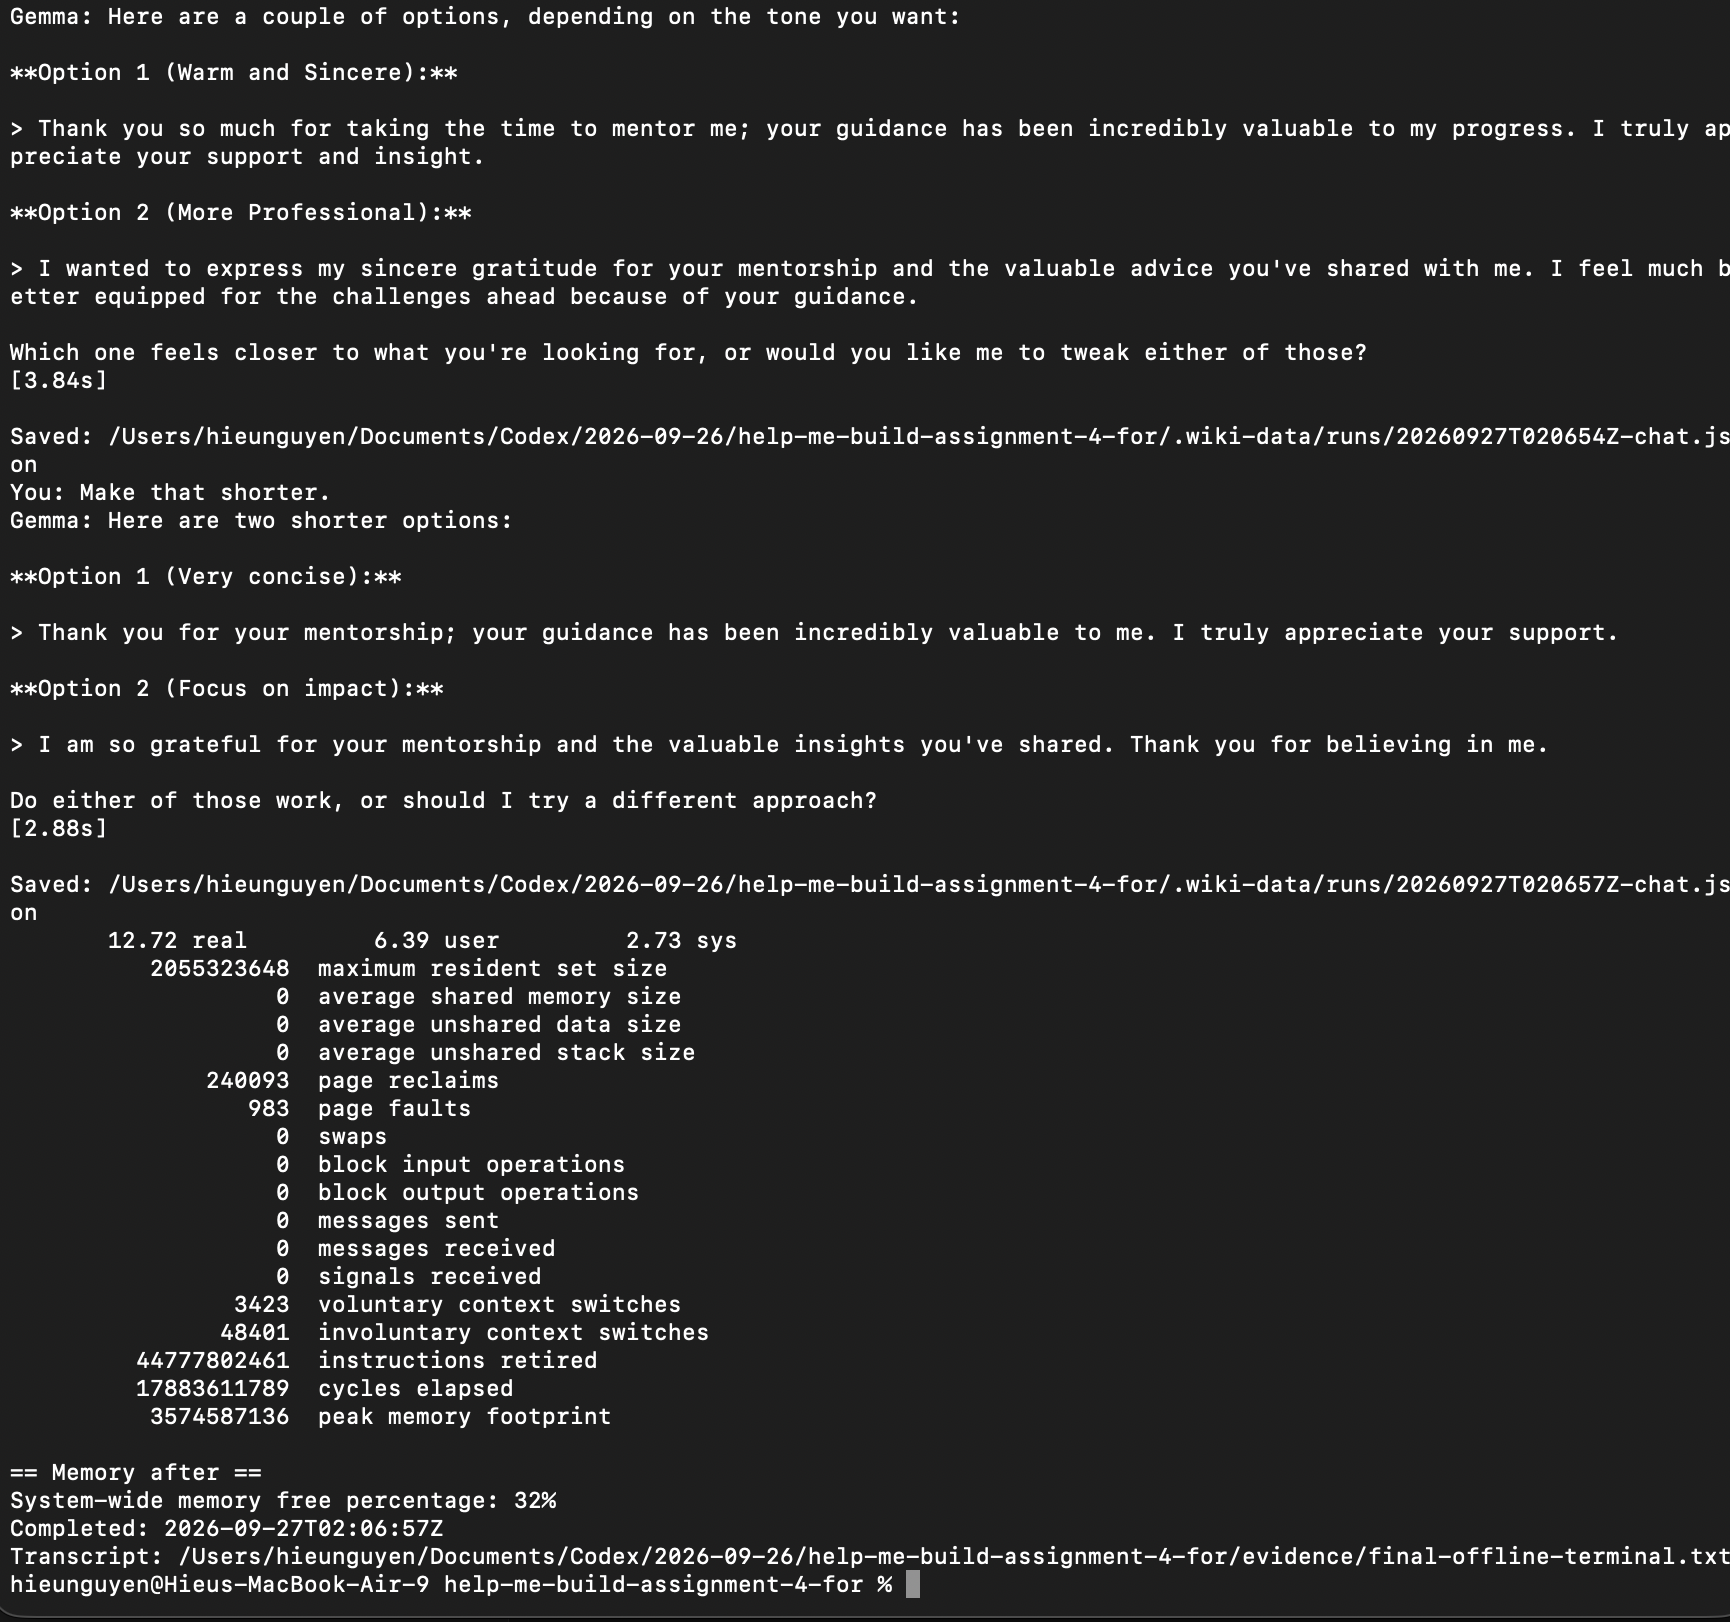
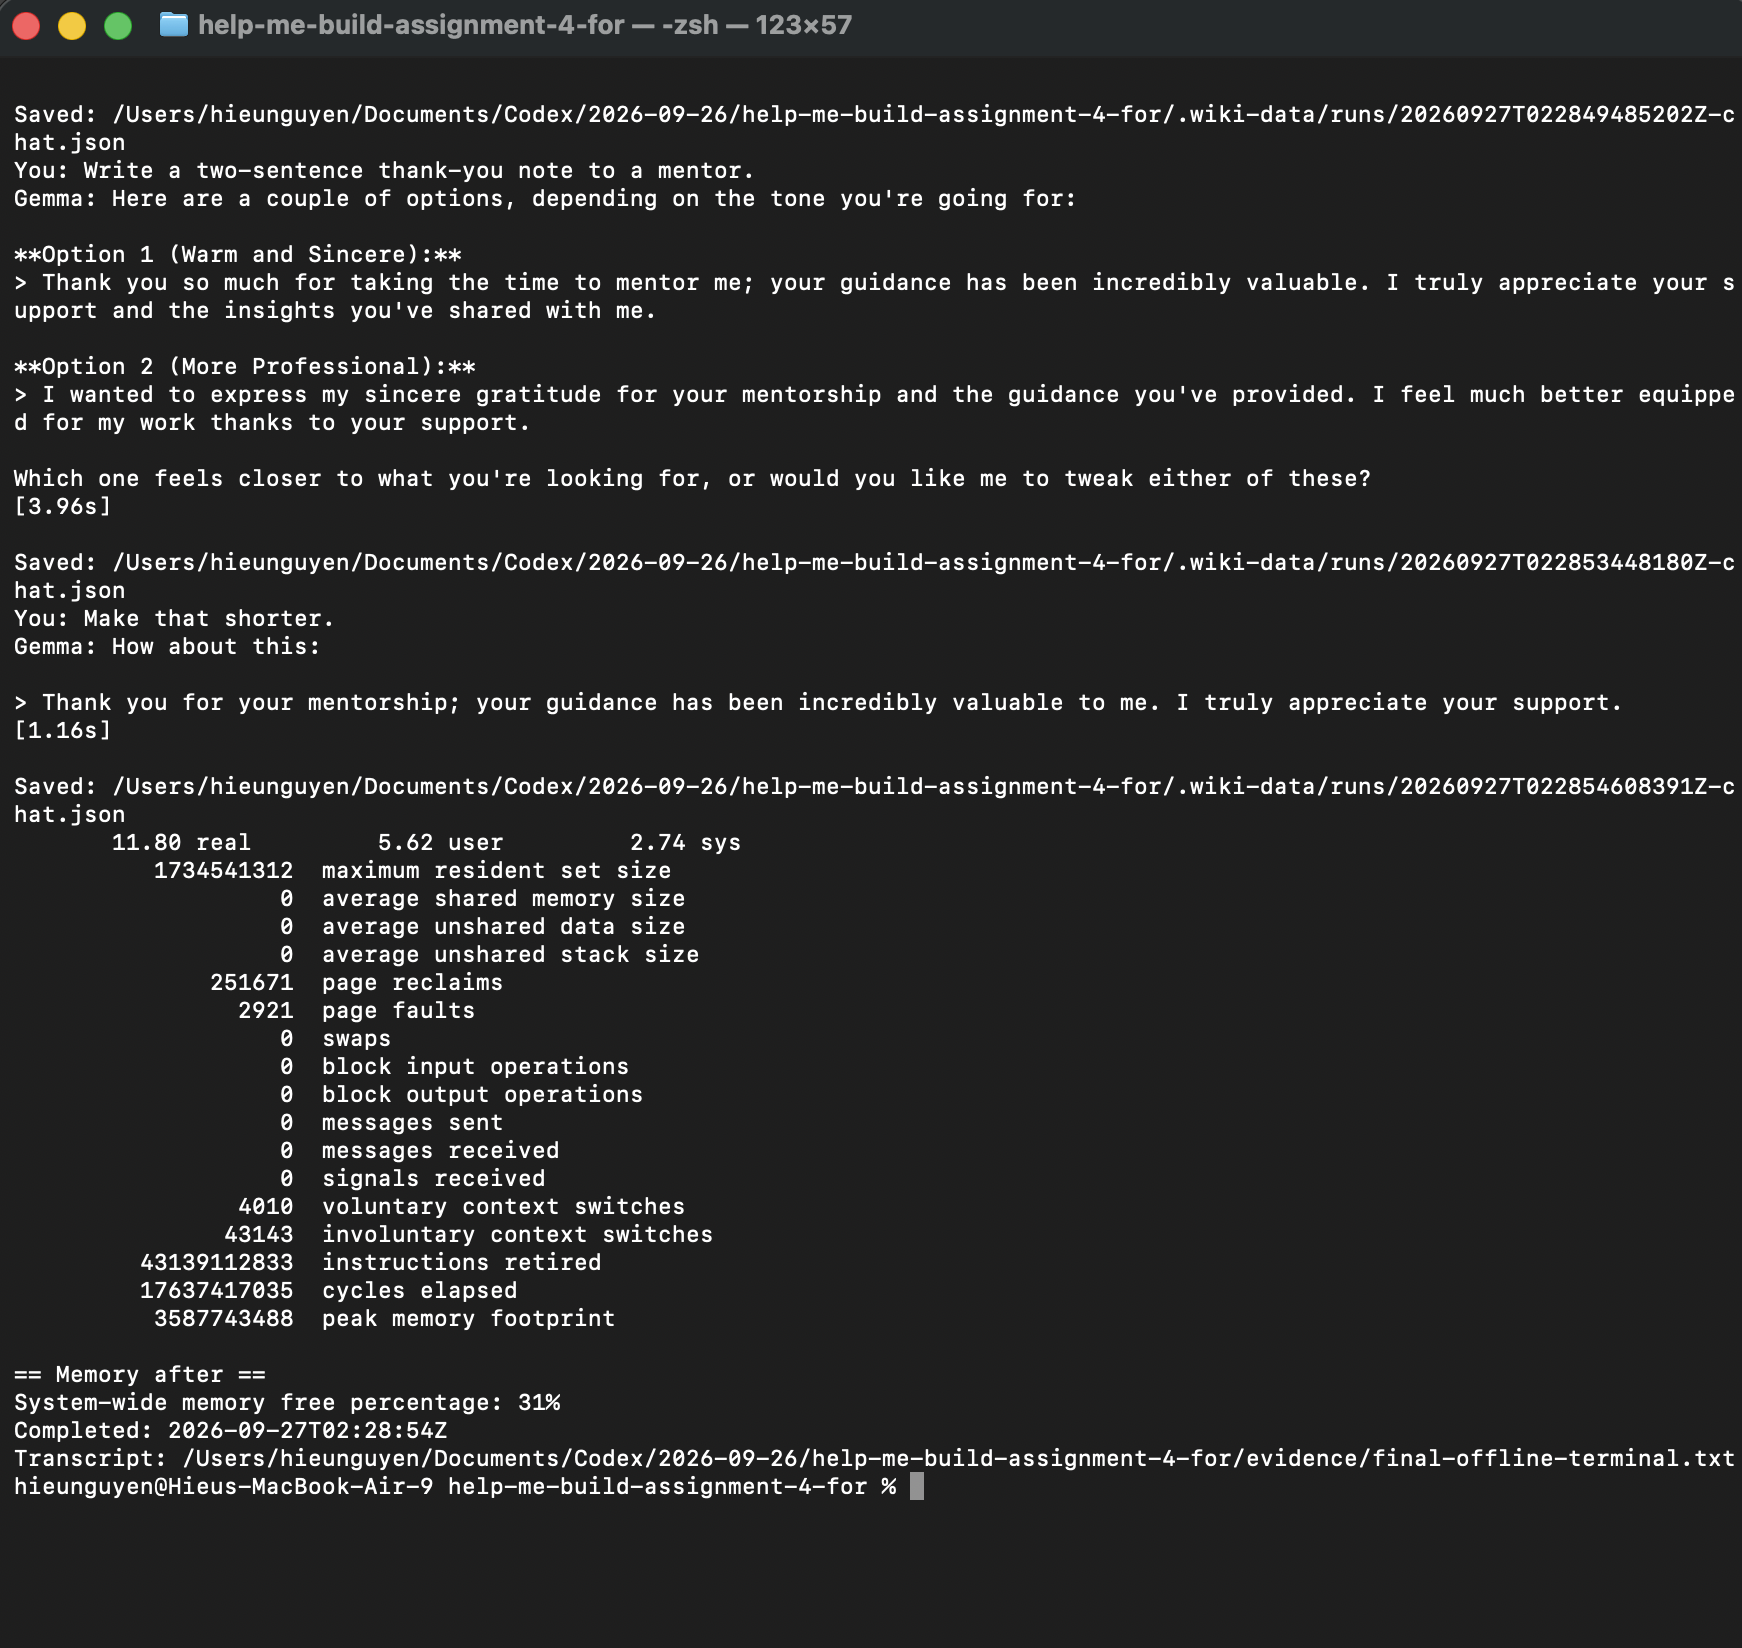
Improve grading index and offline proof

Changed region(s): [[0.0, 0.0, 1.0, 1.0], [0.6867, 0.524, 1.0, 0.5549], [0.6867, 0.8631, 0.9988, 0.894]]

diff --git a/README.md b/README.md
@@ -2,9 +2,19 @@
 
 This is an original Python CLI and harness, not a cloned sample app. It turns five public-safe source notes into a small Obsidian wiki and answers questions locally with a quantized Gemma model. Local mode is the default: retrieval, generation, citations, run logs, and the wiki all work without a cloud service.
 
+## Grading index
+
+- **Implementation:** [CLI](personal_wiki/cli.py), [harness](personal_wiki/harness.py), [retrieval](personal_wiki/retrieval.py), [local Gemma adapter](personal_wiki/model.py), and [wiki builder](personal_wiki/wiki_builder.py)
+- **Setup:** [setup script](setup.sh), [configuration](wiki_config.toml), and the commands below
+- **Personal wiki:** [vault index](vault/index.md), [original sources](vault/raw/), [reviewed wiki pages](vault/wiki/), and [generation manifest](vault/wiki_manifest.toml)
+- **Ask evaluations:** [K-means](evidence/ask-kmeans.md), [recommender retrieval and ranking](evidence/ask-recommender-retrieval-ranking.md), [product archetypes](evidence/ask-product-archetypes.md), and [unsupported Eiffel Tower question](evidence/ask-unsupported-eiffel-tower.md)
+- **Mode checks:** [chat evaluation](evidence/chat-mode-check.md), [wiki-backed chat citations](evidence/chat-wiki-citation-terminal.txt), and [wiki-generation evidence](evidence/ingestion-wiki-generation.md)
+- **Offline proof:** [final summary](evidence/final-offline-summary.md), [complete terminal transcript](evidence/final-offline-terminal.txt), [start screenshot showing Wi-Fi off](evidence/screenshots/final/offline-terminal-start.png), and [completion screenshot](evidence/screenshots/final/offline-terminal-completed.png)
+- **Obsidian proof:** [open note](evidence/screenshots/final/obsidian-open-note.png), [topic-organized index](evidence/screenshots/final/obsidian-index.png), and [wiki-only graph](evidence/screenshots/final/obsidian-graph-path-wiki.png)
+
 ## Device and model choice
 
-Test device: macOS Tahoe 26.6.2, Apple M1 MacBook Air, 8 GB unified memory, and 23.85 GB free disk space when setup began. The selected model is [`mlx-community/Gemma4-E2B-IT-Text-int4`](https://huggingface.co/mlx-community/Gemma4-E2B-IT-Text-int4), about 2.5 GB on disk, run through MLX-VLM 0.7.2.
+Test device: macOS Tahoe 26.6.2, Apple M1 MacBook Air, 8 GB unified memory, and 23.85 GB free disk space when setup began. System-wide memory was 41% free immediately before the final offline run and 31% free afterward. The selected checkpoint is [`mlx-community/Gemma4-E2B-IT-Text-int4`](https://huggingface.co/mlx-community/Gemma4-E2B-IT-Text-int4), a 2.67 GB int4 MLX conversion of Google's official [`google/gemma-4-E2B-it`](https://huggingface.co/google/gemma-4-E2B-it), run through MLX-VLM 0.7.2. The model family and available variants are documented in [Google's official Gemma documentation](https://ai.google.dev/gemma/docs/get_started).
 
 | Gemma option | Meaning | Decision for this Mac |
 |---|---|---|
@@ -46,6 +56,10 @@ Inside chat, `/wiki <question>` explicitly retrieves notes, `/reset` clears the 
 | Harness | `personal_wiki/harness.py` manages modes, chat context, prompts, model calls, timing, citation validation, errors, and optional JSON outputs. |
 | CLI | `personal_wiki/cli.py` exposes `chat`, `ask`, `search`, `ingest`, and `help`; `model.py` connects the harness to MLX-VLM. |
 
+### One command traced through the harness
+
+For `./launch.command ask "How does K-means update its centroids?" --save`, `launch.command` selects the project virtual environment and invokes `wiki.py`. `personal_wiki/cli.py` parses `ask`, loads the configuration, and creates `WikiHarness`. `WikiHarness.ask` starts a fresh request without chat history, calls the local retrieval tool, formats the numbered evidence within the context limit, loads the research-only prompt, and calls local Gemma through `model.py`. The harness validates that the answer contains only valid passage citation numbers, the CLI displays the answer and evidence paths, and `--save` records the question, passages, answer, timing, and citations outside the vault.
+
 Assistant instructions and research rules are deliberately separate in `prompts/assistant.md` and `prompts/research.md`. Retrieved notes are treated as untrusted evidence, not instructions. Chunks, hashes, SQLite data, and saved outputs remain outside the Obsidian vault in `.wiki-data/`.
 
 Retrieval uses Unicode tokenization, prefix matches, BM25 ranking, and a query-term overlap threshold. Markdown is split near 1,600 characters, `ask` retrieves five passages with a 12,000-character context ceiling, and generation is capped at 320 tokens. This simple local lexical design is transparent and fast, although semantic/hybrid retrieval would improve synonym handling.
@@ -64,26 +78,28 @@ Obsidian verification:
 
 ## Acceptance tests and real results
 
-Answerable `ask` questions:
+Final offline `ask` evidence:
 
-1. How does K-means update its centroids, and why should initialization be repeated?
-2. What roles do retrieval and ranking play in a recommender system?
-3. What distinguishes an Operator from a Craftsperson in product leadership?
+1. [K-means centroids and initialization](evidence/ask-kmeans.md)
+2. [Recommender retrieval and ranking](evidence/ask-recommender-retrieval-ranking.md)
+3. [Product leadership archetypes](evidence/ask-product-archetypes.md)
+4. [Unsupported Eiffel Tower question](evidence/ask-unsupported-eiffel-tower.md), which returned exactly `Insufficient evidence in the wiki.`
 
-Unsupported question: **When was the Eiffel Tower completed?** It returned exactly `Insufficient evidence in the wiki.`
+Each card contains the expected sources, exact retrieved passages, actual Gemma answer, citations, response time, and a human assessment of whether the cited passages support the claims.
 
-On 2026-09-27, Wi-Fi was turned off, the CLI was restarted, the index was rebuilt, all four questions ran, raw search ran, and chat plus a follow-up ran without cloud services or fallback. The complete unedited transcript is [evidence/final-offline-terminal.txt](evidence/final-offline-terminal.txt); the terminal completion screenshot is [here](evidence/screenshots/final/offline-terminal-completed.png).
+On 2026-09-27, Wi-Fi was turned off, the CLI was restarted, the index was rebuilt, all four questions ran, raw search ran, and chat plus a follow-up ran without cloud services or fallback. The complete unedited transcript is [evidence/final-offline-terminal.txt](evidence/final-offline-terminal.txt). The [start screenshot](evidence/screenshots/final/offline-terminal-start.png) shows the Wi-Fi-off check and fresh restart, while the [completion screenshot](evidence/screenshots/final/offline-terminal-completed.png) shows the completed run.
 
 | Offline check | Response time | Maximum resident set size | Peak memory footprint |
 |---|---:|---:|---:|
-| Fresh ingestion, 15 files / 88 chunks | 0.06 s wall time | 23.25 MiB | 13.09 MiB |
-| K-means `ask` | 9.32 s | 796.14 MiB | 3.56 GiB |
-| Recommender `ask` | 10.31 s | 1.74 GiB | 3.57 GiB |
-| Product archetypes `ask` | 9.70 s | 1.93 GiB | 3.67 GiB |
-| Unsupported `ask` | 0.00 s | 22.45 MiB | 12.34 MiB |
-| Three-turn chat, total | 12.72 s | 1.91 GiB | 3.33 GiB |
+| Fresh ingestion, 15 files / 88 chunks | 0.06 s wall time | 23.38 MiB | 13.22 MiB |
+| K-means `ask` | 12.68 s | 514.91 MiB | 3.42 GiB |
+| Recommender `ask` | 10.96 s | 1.55 GiB | 3.57 GiB |
+| Product archetypes `ask` | 10.05 s | 1.71 GiB | 3.67 GiB |
+| Unsupported `ask` | 0.00 s | 22.42 MiB | 12.31 MiB |
+| Three-turn chat, total | 11.80 s wall time | 1.61 GiB | 3.34 GiB |
+| Wiki-backed cited chat | 14.35 s | Not separately measured | Not separately measured |
 
-System-wide free memory was 64% before and 32% after the complete run. A second ingestion reported 15 unchanged files and zero new chunks. Six automated tests verify idempotent re-ingestion, stale-file removal, navigation exclusion, raw-only search, selective chat retrieval, separation of `ask` from chat history, and collision-free saved outputs.
+System-wide free memory was 41% before and 31% after the final offline sequence. A second ingestion reported 15 unchanged files and zero new chunks. Seven automated tests verify idempotent re-ingestion, stale-file removal, navigation exclusion, raw-only search, selective chat retrieval, conversational retrieval-query cleanup, citation repair in wiki-backed chat, separation of `ask` from chat history, and collision-free saved outputs.
 
 ```sh
 ./launch.command ingest

diff --git a/evidence/final-offline-summary.md b/evidence/final-offline-summary.md
@@ -1,19 +1,28 @@
 # Final Offline Test Summary
 
-Source of truth: `final-offline-terminal.txt`, captured from the normal macOS Terminal on 2026-09-27. Wi-Fi was reported off before the script continued. No outputs below were invented or edited.
+Source of truth: [`final-offline-terminal.txt`](final-offline-terminal.txt), captured from the normal macOS Terminal on 2026-09-27. The script verified that Wi-Fi was off before continuing and enabled the Hugging Face and Transformers offline flags. No results below were invented or edited.
 
 | Check | Observed result |
 |---|---|
-| Fresh restart and help | CLI displayed all five modes. |
-| Fresh ingestion | 15 updated files, 88 chunks; 0.06 s wall time. |
-| Re-ingestion | 15 unchanged files, zero new chunks. |
-| Raw search | Three original passages from `raw/Unsupervised Learning.md`; no Gemma call. |
-| K-means ask | Evidence-supported response with `[1]` and `[2]`; 9.32 s. |
-| Recommender ask | Evidence-supported response with `[1]`, `[2]`, and `[3]`; 10.31 s. |
-| Product leadership ask | Evidence-supported response with citations; 9.70 s. |
-| Unsupported ask | Exact response: `Insufficient evidence in the wiki.`; 0.00 s. |
-| Chat | Casual capability answer, two-sentence mentor note, then a shorter revision using session context. |
+| Fresh restart and help | The CLI displayed `chat`, `ask`, `search`, `ingest`, and `help`. |
+| Fresh ingestion | 15 files indexed into 88 chunks; approximately 0.06 seconds wall time. |
+| Duplicate-safety re-ingestion | 15 unchanged files and zero new chunks. |
+| Raw search | Returned original passages from `raw/Unsupervised Learning.md` without loading Gemma. |
+| K-means ask | Grounded answer with citations; 12.68 seconds. |
+| Recommender ask | Grounded answer with citations; 10.96 seconds. |
+| Product-archetypes ask | Grounded answer with citations; 10.05 seconds. |
+| Unsupported ask | Returned exactly `Insufficient evidence in the wiki.` in 0.00 seconds. |
+| Three-turn chat | Capability explanation, mentor thank-you note, and a shorter follow-up using conversation context; 11.80 seconds total wall time. |
+| Wiki-backed cited chat | Retrieved K-means passages and cited factual claims with `[1]` and `[2]`; 14.35 seconds. |
 
-The highest observed model-command peak memory footprint was 3,935,346,880 bytes (about 3.67 GiB), during the product-leadership question. The highest maximum resident set size was 2,068,054,016 bytes (about 1.93 GiB). The full chat process took 12.72 seconds. System-wide free memory changed from 64% before the sequence to 32% afterward.
+The highest peak memory footprint during the four final ask tests was 3,940,638,272 bytes, approximately 3.67 GiB, during the product-archetypes question. The highest maximum resident set size was 1,833,074,688 bytes, approximately 1.71 GiB. The three-turn chat peaked at approximately 3.34 GiB.
 
-One saved JSON filename collision was exposed because two commands completed within the same second. The terminal transcript retained both outputs. The code now uses microsecond timestamps, and `test_saved_runs_have_unique_names` prevents regression.
+System-wide free memory changed from 41% before the final sequence to 31% afterward. All four ask commands created distinct microsecond-resolution saved-result filenames. Seven automated tests pass, including coverage for idempotent re-ingestion, stale-file removal, raw-only search, ask/chat separation, conversational retrieval-query cleanup, citation repair in wiki-backed chat, and collision-free saved outputs.
+
+The individual evidence cards contain the exact retrieved passages, answers, citations, measurements, and human assessments:
+
+- [K-means](ask-kmeans.md)
+- [Recommender retrieval and ranking](ask-recommender-retrieval-ranking.md)
+- [Product archetypes](ask-product-archetypes.md)
+- [Unsupported Eiffel Tower question](ask-unsupported-eiffel-tower.md)
+- [Chat and mode-boundary checks](chat-mode-check.md)
